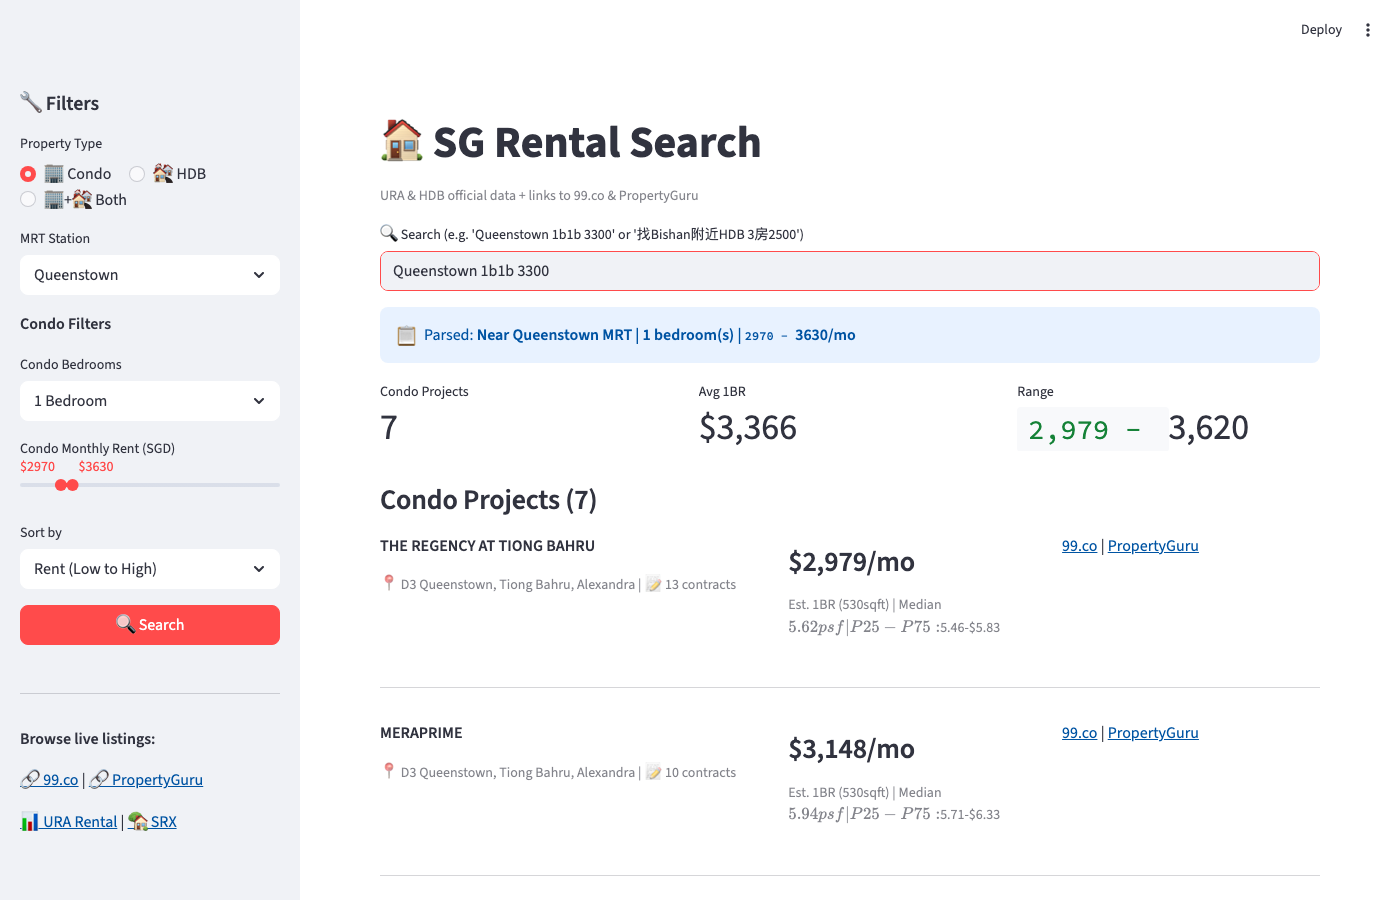
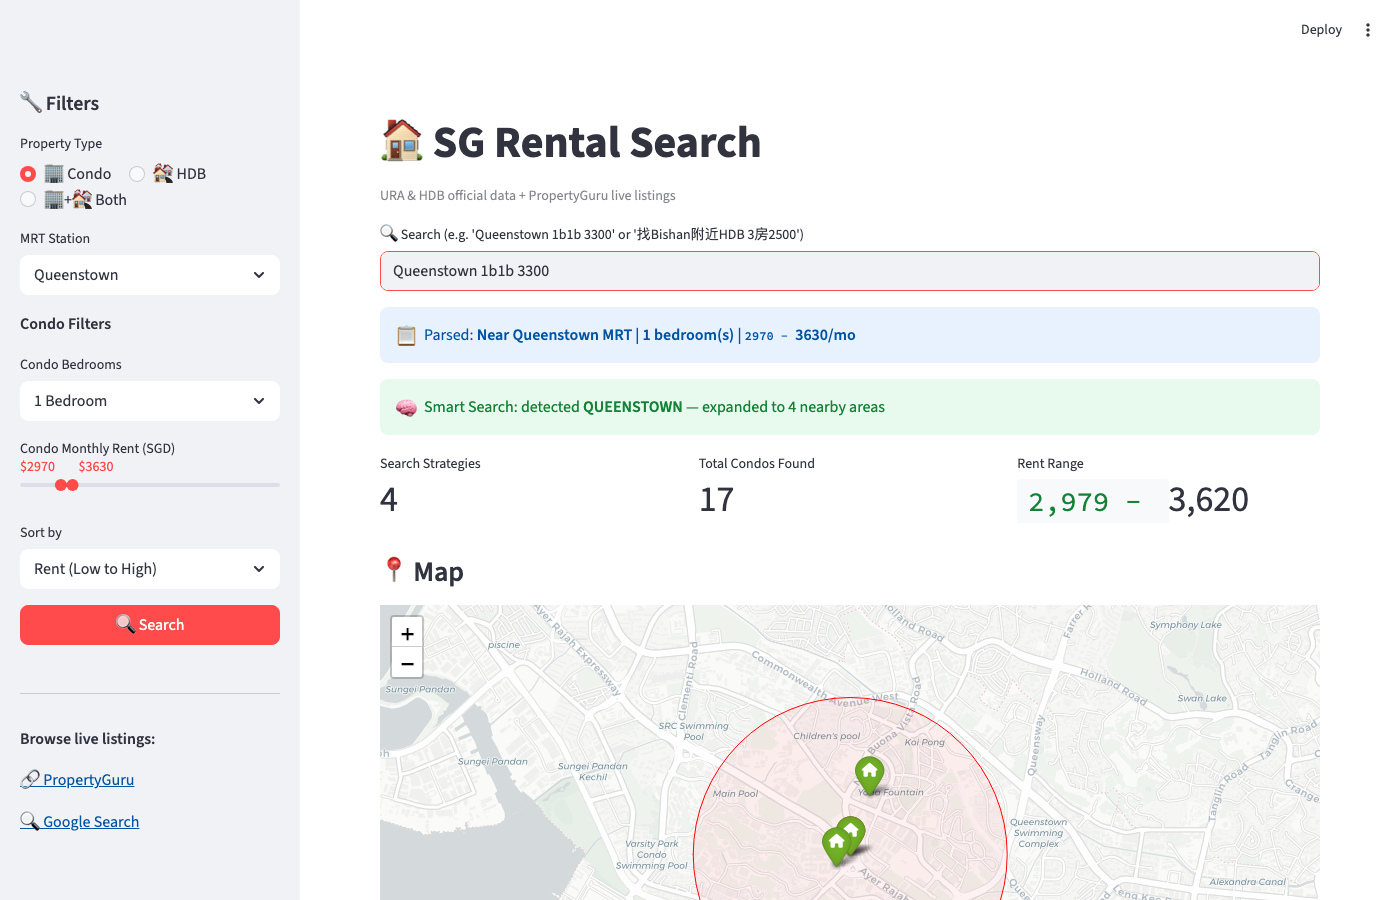
docs: comprehensive README rewrite with all features and examples
- 8 fresh screenshots covering all features:
  Home, Condo Search, Condo Map, Smart Search (SMU),
  Smart Map, HDB Search, HDB Map
- 30+ query examples organized by category:
  Basic, Price Range, Smart/Landmark, HDB, Facing/Floor, Chinese
- Architecture diagram showing query flow
- Claude Code skills documentation (/search-condo, /smart-search)
- Updated data sources table (PropertyGuru primary, removed broken links)
- Full project structure with test breakdown (142 tests)
- Removed stale screenshots

diff --git a/README.md b/README.md
@@ -1,116 +1,197 @@
 # SG Rental Search 🏠
 
-An interactive tool for searching and comparing Singapore **Condo** and **HDB** rentals, powered by official URA & HDB data.
+An interactive tool for searching and comparing Singapore **Condo** and **HDB** rentals. Powered by official URA & HDB government data, with smart landmark-based search and natural language support (English + Chinese).
 
 ![Python](https://img.shields.io/badge/Python-3.10+-blue)
 ![Streamlit](https://img.shields.io/badge/Streamlit-1.30+-red)
+![Tests](https://img.shields.io/badge/Tests-142%20passed-brightgreen)
 ![License](https://img.shields.io/badge/License-MIT-green)
-
-## Screenshots
-
-### Home Page
-![Home Page](docs/screenshots/01_home.png)
-
-### Condo Search — Queenstown 1BR ~$3,300
-![Condo Search Results](docs/screenshots/02_condo_search.png)
-
-### Interactive Map — Condos near Queenstown MRT
-![Condo Map View](docs/screenshots/03_map_view.png)
-
-### HDB Search — Queenstown 3-Room ~$2,500
-![HDB Search Results](docs/screenshots/06_hdb_search.png)
-
-### HDB Map — Street-Level Markers
-![HDB Map View](docs/screenshots/08_hdb_map.png)
-
-## Features
-
-- **Condo + HDB** — Toggle between Condo, HDB, or Both in one dashboard
-- **Natural Language Search** — English or Chinese, e.g. `Queenstown 1b1b 3300` or `找Bishan附近HDB 3房2500`
-- **Official Data** — 551 condo projects (URA) + 200K+ HDB transactions (data.gov.sg)
-- **Interactive Map** — Folium map with MRT stations, color-coded markers, search radius
-- **Smart Filtering** — MRT proximity, bedrooms/flat type, price range, sort by rent/popularity
-- **Direct Links** — Click through to 99.co / PropertyGuru for live listings
-- **Bargaining Reference** — P25-P75 price range helps you negotiate better deals
 
 ## Quick Start
 
 ```bash
-# Clone
 git clone https://github.com/demoleiwang/SGCondoRentalSearch.git
 cd SGCondoRentalSearch
-
-# Install dependencies
 pip install -r requirements.txt
-
-# Run
 streamlit run app.py
 ```
 
 Open http://localhost:8501 in your browser.
 
-## Usage
+---
 
-### Option 1: Natural Language
+## Features at a Glance
 
-Type your query in the search box:
+### 1. Smart Search — Type a landmark, get multi-area results
 
-| Query | What it does |
+Type `SMU附近 1b1b 3300` and the system automatically:
+- Detects **SMU** as Singapore Management University
+- Finds **14 nearby MRT stations** (Bras Basah, City Hall, Bugis, Dhoby Ghaut, ...)
+- Searches condos near **each station** with your budget
+- Returns **35 condos** across all areas, grouped and ranked by distance
+
+![Smart Search - SMU](docs/screenshots/04_smart_search.png)
+![Smart Search Map](docs/screenshots/05_smart_map.png)
+
+**Supported landmarks:** SMU, NUS, NTU, SUTD, SIM, CBD, MBFC, OUE Downtown, Mapletree Business City, one-north, Changi Business Park, SGH, NUH, TTSH, Orchard, and more.
+
+### 2. Condo Search — Filter by MRT, price, bedrooms
+
+![Condo Search](docs/screenshots/02_condo_search.png)
+![Condo Map](docs/screenshots/03_condo_map.png)
+
+### 3. HDB Search — Real transaction data
+
+![HDB Search](docs/screenshots/07_hdb_search.png)
+![HDB Map](docs/screenshots/08_hdb_map.png)
+
+### 4. Home Page — Popular searches, quick start
+
+![Home Page](docs/screenshots/01_home.png)
+
+---
+
+## Search Examples (130+ tested)
+
+### Basic Condo Searches
+| Query | Result |
 |---|---|
 | `Queenstown 1b1b 3300` | 1BR condos near Queenstown MRT, ~$3,300/mo |
-| `找Bishan附近2房4000以内` | 2BR condos near Bishan, max $4,000 |
+| `Bishan 2 bedroom 4000` | 2BR condos near Bishan, ~$4,000/mo |
+| `Novena 1br 3500` | 1BR near Novena, ~$3,500/mo |
+| `Holland Village 2b2b 4800` | 2BR near Holland Village, ~$4,800/mo |
+| `Dhoby Ghaut studio 2500` | Studio near Dhoby Ghaut, ~$2,500/mo |
+
+### Price Range Patterns
+| Query | Result |
+|---|---|
+| `Queenstown 1br 3000-3500` | Exact range $3,000-$3,500 |
+| `Novena 1 bedroom 3000 to 4000` | Range with "to" |
+| `$3,000-$3,500 1br Bishan` | Dollar signs supported |
+| `Orchard 1br under 4000` | Max $4,000 |
+| `Clementi 2br at least 3000` | Min $3,000 |
+| `Bishan 1b1b 3500以内` | Chinese "以内" = max |
+| `Newton 3br 6000以上` | Chinese "以上" = min |
+
+### Smart Search (Landmarks)
+| Query | What happens |
+|---|---|
+| `SMU附近 1b1b 3300` | Expands to 14 nearby MRT stations, finds 35 condos |
+| `NUS附近 1br 2500-3500` | Finds condos near Kent Ridge, Buona Vista, one-north |
+| `CBD附近 2br 5000` | Searches across Raffles Place, Tanjong Pagar, Downtown area |
+| `找NTU附近的2房 3000左右` | Chinese + landmark + approximate price |
+
+### HDB Searches
+| Query | Result |
+|---|---|
 | `Queenstown 3-room 2500` | HDB 3-room near Queenstown, ~$2,500/mo |
-| `Holland Village studio 2500以下` | Studio near Holland Village, max $2,500 |
+| `Bishan 4-room 3000` | HDB 4-room near Bishan |
+| `Tampines 5-room 3500` | HDB 5-room near Tampines |
+| `executive flat Bishan 5000` | HDB Executive near Bishan |
+| `Sengkang 3-room 2000-2500` | HDB with price range |
 
-### Option 2: Sidebar Filters
+### Facing & Floor
+| Query | Result |
+|---|---|
+| `Queenstown 1b1b 3300 south facing` | Filter by south facing |
+| `朝南的1房 Novena 3500` | Chinese south facing |
+| `southeast facing Queenstown 3000` | SE facing |
+| `high floor 1br Queenstown 3500` | Floor >= 15 |
+| `高楼层 Bishan 2房 4500` | Chinese high floor |
+| `Novena 1br min floor 10` | Explicit floor >= 10 |
+| `10楼以上 Bishan 2房 4000` | Chinese "10楼" = floor >= 10 |
 
-1. Choose **Property Type** — Condo, HDB, or Both
-2. Select MRT station, bedroom/flat type, and price range
-3. Click **Search**
+### Chinese Queries
+| Query | Result |
+|---|---|
+| `找Queenstown附近1房3300左右` | 1BR ~$3,300 |
+| `在Bishan地铁站附近租2房，预算4000以内` | 2BR max $4,000 |
+| `Queenstown附近有没有3000以下的1房` | 1BR under $3,000 |
+| `帮我筛选Novena附近朝南的1b1b月租3500` | South facing, ~$3,500 |
+| `Clementi地铁站500米内的2房，不超过4500` | 500m radius, max $4,500 |
+| `Redhill附近2房朝南高楼层 4500以内` | South + high floor + max $4,500 |
 
-### Claude Code Integration
+> All 130 examples are in [`examples.py`](examples.py). Run `python examples.py` to verify.
 
-If you use [Claude Code](https://claude.ai/claude-code), there's a built-in skill:
+---
 
-```
+## Claude Code Integration
+
+Two built-in skills for [Claude Code](https://claude.ai/claude-code) users:
+
+```bash
+# Basic search
 /search-condo Queenstown 1b1b 3300
+
+# Smart search with landmarks
+/smart-search SMU附近 1b1b 3300
+/smart-search 找NUS附近的1房 2500以内
 ```
+
+---
 
 ## How It Works
 
-1. **Data Source** — Fetches URA condo stats + HDB rental transactions from [data.gov.sg](https://data.gov.sg)
-2. **Local Cache** — Data cached locally for 24h to avoid API rate limits
-3. **Rent Estimation** — Condo: median $/psf × typical unit size; HDB: actual transaction rents
-4. **MRT Mapping** — Maps MRT stations to postal districts (condo) and towns (HDB)
-5. **Geocoding** — Uses [OneMap API](https://www.onemap.gov.sg/) to plot locations on the map
-6. **Live Listings** — Generates 99.co and PropertyGuru search URLs for each project
+```
+User Query → NL Parser → Smart Expand (if landmark) → Multi-station Search → Aggregate & Display
+                              ↓
+                    Geocode landmark via OneMap
+                    Find nearby MRT stations (1.5km)
+                    Generate search per station
+```
+
+1. **Natural Language Parser** — Regex-based extraction of MRT stations, bedrooms, price, facing, floor, radius (supports English + Chinese)
+2. **Smart Expand** — Detects landmarks (universities, offices, etc.), geocodes them, finds nearby MRT stations, generates multiple search strategies
+3. **Data Source** — URA condo rental statistics + HDB rental transactions from [data.gov.sg](https://data.gov.sg), cached locally for 24h
+4. **Rent Estimation** — Condo: median $/psf × typical unit size; HDB: actual approved transaction rents
+5. **MRT Mapping** — 140 MRT stations mapped to postal districts (condo) and towns (HDB)
+6. **Live Listings** — PropertyGuru search links + Google search fallback for each project
 
 ## Data Sources
 
-| Source | Type | Access |
+| Source | Data | Update Frequency |
 |---|---|---|
-| [URA via data.gov.sg](https://data.gov.sg) | Condo rental statistics (551 projects, Q4 2025) | Free API |
-| [HDB via data.gov.sg](https://data.gov.sg) | HDB rental transactions (200K+ records, 2021-2026) | Free API |
-| [OneMap](https://www.onemap.gov.sg/) | Geocoding | Free API |
-| [99.co](https://www.99.co) | Live rental listings | Via browser link |
-| [PropertyGuru](https://www.propertyguru.com.sg) | Live rental listings | Via browser link |
-| [URA Rental Transactions](https://www.ura.gov.sg/property-market-information/pmiResidentialRentalSearch) | Historical transactions | Web portal |
+| [URA via data.gov.sg](https://data.gov.sg) | 551 condo projects — median rent/psf, P25-P75, contract volumes | Quarterly |
+| [HDB via data.gov.sg](https://data.gov.sg) | 200K+ rental transactions — actual approved monthly rents | Monthly |
+| [OneMap](https://www.onemap.gov.sg/) | Address geocoding, MRT station coordinates | Real-time |
+| [PropertyGuru](https://www.propertyguru.com.sg) | Current rental listings (via browser link) | Live |
 
 ## Project Structure
 
 ```
-├── app.py                    # Streamlit dashboard
-├── config.py                 # Constants and configuration
+├── app.py                    # Streamlit dashboard (main UI)
 ├── engine.py                 # NL query parser + filter engine
-├── geo.py                    # Haversine distance, MRT lookup, geocoding
-├── requirements.txt          # Python dependencies
+├── smart_search.py           # Landmark detection + multi-area expansion
+├── commute.py                # MRT commute analysis
+├── geo.py                    # Haversine distance, MRT lookup, OneMap geocoding
+├── config.py                 # Constants and configuration
+├── examples.py               # 130 test query examples
+├── requirements.txt
 ├── data/
 │   ├── mrt_stations.json     # 140 MRT stations with coordinates
-│   └── cache/                # Local data cache (auto-generated)
-└── scraper/
-    ├── data_gov.py           # URA condo data fetcher
-    ├── hdb.py                # HDB rental data fetcher
-    └── ninety_nine.py        # 99.co scraper (backup)
+│   └── cache/                # Local data cache (auto-generated, 24h TTL)
+├── scraper/
+│   ├── data_gov.py           # URA condo data fetcher + URL builders
+│   ├── hdb.py                # HDB rental data fetcher
+│   └── ninety_nine.py        # 99.co scraper (backup, Cloudflare-blocked)
+├── tests/
+│   ├── test_engine.py        # 82 tests — parser, filter, geo, data
+│   ├── test_commute.py       # 20 tests — commute analysis
+│   ├── test_smart_search.py  # 23 tests — landmark detection, expansion
+│   └── test_urls.py          # 17 tests — URL format, reachability
+└── .claude/commands/
+    ├── search-condo.md       # /search-condo skill
+    └── smart-search.md       # /smart-search skill
+```
+
+## Testing
+
+```bash
+# Run all 142 tests
+python -m pytest tests/ -v
+
+# Run example queries (130 NL parsing tests)
+python examples.py
 ```
 
 ## Rental Tips
@@ -118,14 +199,14 @@ If you use [Claude Code](https://claude.ai/claude-code), there's a built-in skil
 From the [rental guide](rednote_experience.txt):
 
 1. **Find the unit number** — Google `"condo name" + brochure` for floor plans
-2. **Check URA history** — Look up past rental transactions for the exact unit type
-3. **Cross-reference platforms** — Compare prices across 99.co, PropertyGuru, and SRX
-4. **Use P25 as your target** — The 25th percentile is a realistic bargaining target
-5. **Know your leverage** — Historical data gives you concrete numbers to negotiate with
+2. **Check history** — Use PropertyGuru to look up past rental transactions
+3. **Use P25 as your target** — The 25th percentile rent is a realistic bargaining target
+4. **Cross-reference** — Compare prices across PropertyGuru, SRX, and Google
+5. **Know your leverage** — Show historical data when negotiating with agents
 
 ## Contributing
 
-Issues and PRs welcome. This is a community tool — if you find better data sources or have feature ideas, please share!
+Issues and PRs welcome! If you find better data sources or have feature ideas, please share.
 
 ## License
 
